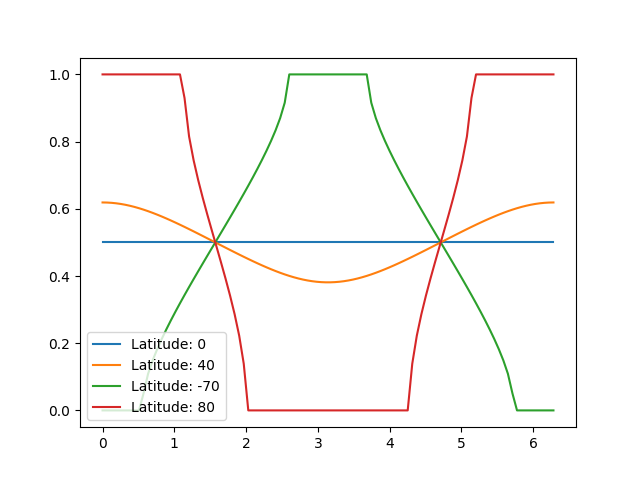
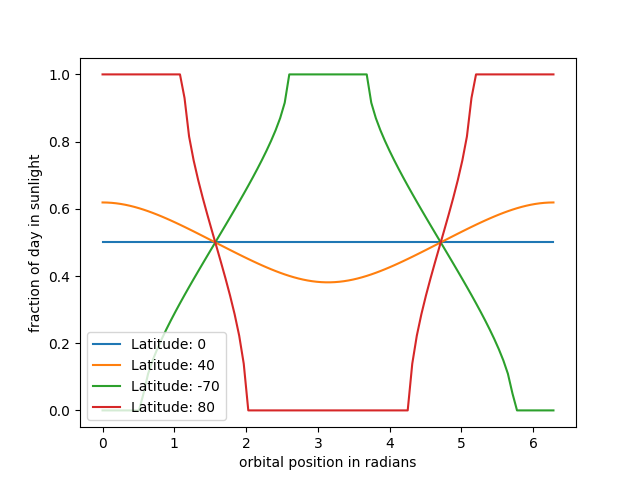
Update

Changed region(s): [[0.0312, 0.3125, 0.0625, 0.6875], [0.375, 0.9375, 0.6562, 1.0]]

diff --git a/daytimeplot.py b/daytimeplot.py
@@ -20,5 +20,7 @@ calc_plot(np.linspace(0,2*np.pi,100),40)
 calc_plot(np.linspace(0,2*np.pi,100),-70)
 calc_plot(np.linspace(0,2*np.pi,100),80)
 plt.legend()
+plt.xlabel("orbital position in radians")
+plt.ylabel("fraction of day in sunlight")
 
 plt.show()
